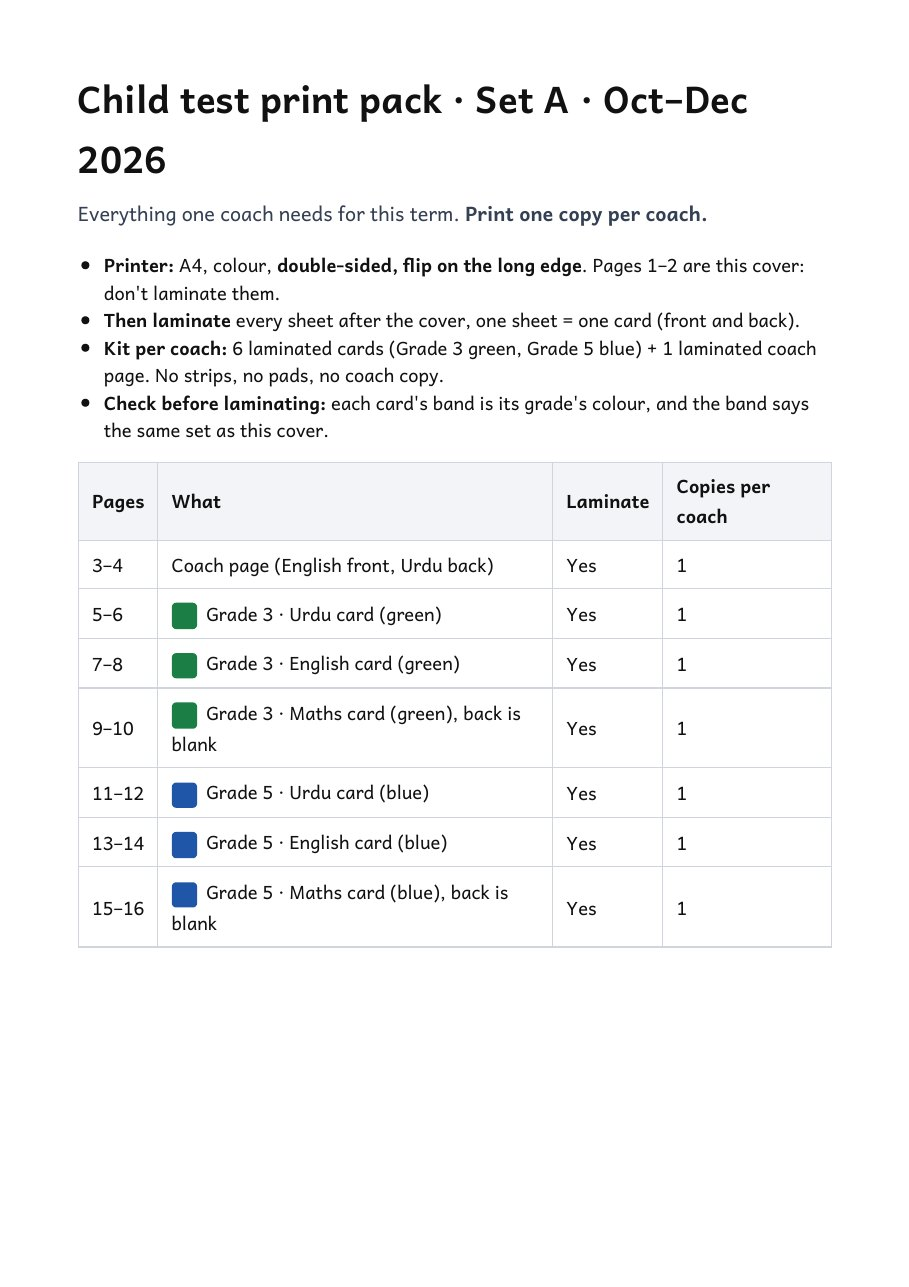
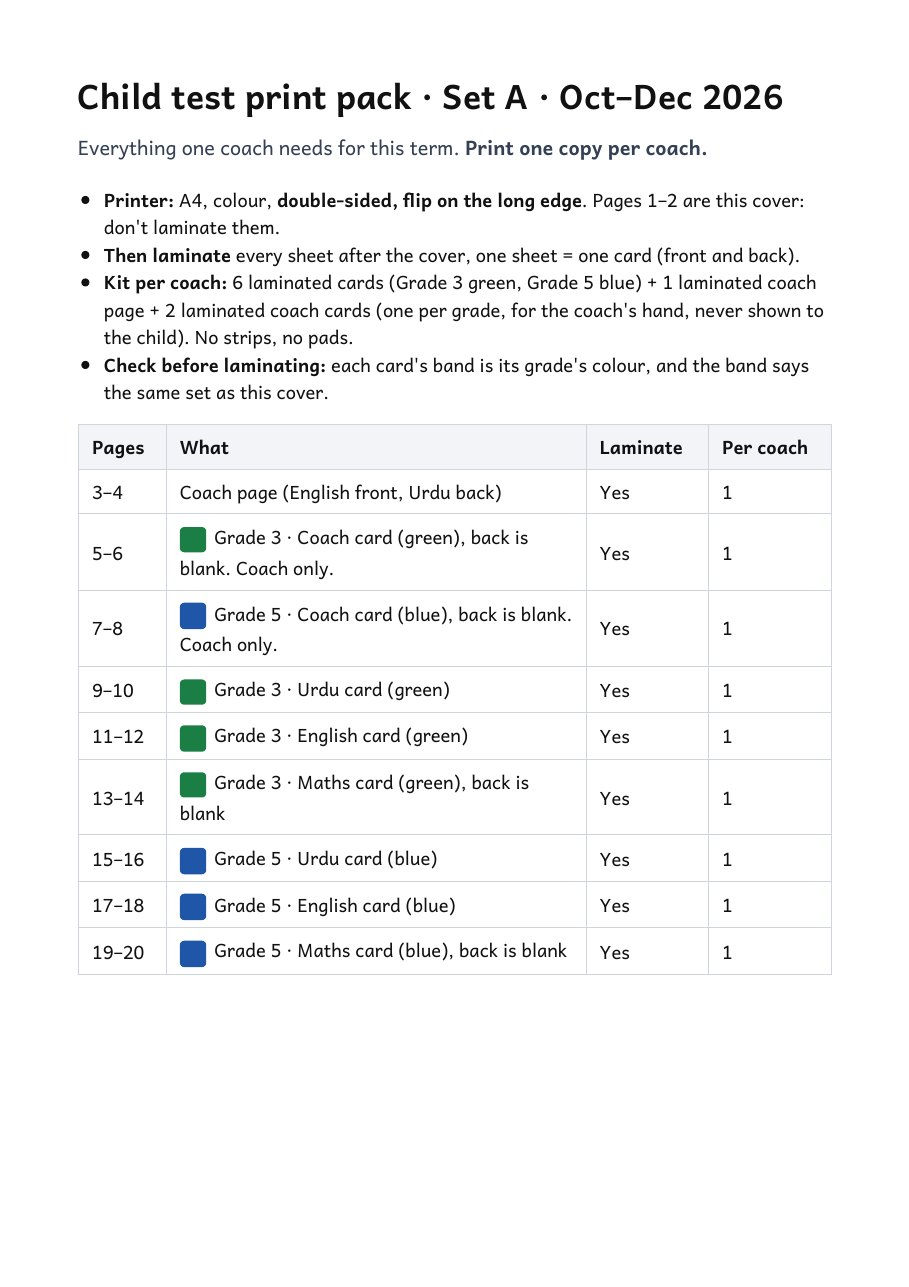
Print pack: coach cards (questions, answers, word problems) and the 20-page order; simulator points to the coach card

Changed region(s): [[0.0924, 0.0622, 0.8933, 0.777], [0.7701, 0.7148, 0.8009, 0.7459], [0.7701, 0.5284, 0.8009, 0.5594]]

diff --git a/index.html b/index.html
@@ -238,40 +238,36 @@ footer{padding-block:34px 48px;color:var(--faint);font-size:13px;max-width:88ch}
     <article><h3>Does the coach read the word problem, explain it, or just give the paper?</h3><p><b>Reads it aloud, slowly, once</b>, as EGMA does (EGMA reads word problems to the child so a weak reader isn't marked down in maths; the child may use paper and pencil; no explaining). The two problems are in the maths message and on the coach card.</p></article>
     <article><h3>The Urdu card had only the story; why did the form ask Urdu comprehension questions? Should Urdu have them?</h3><p><b>Yes</b>: Pakistan's Urdu EGRA asks 5 questions; we ask 3. In EGRA the questions are <b>never on the child's card</b>; the assessor asks them aloud after taking the passage away. The old message never told you to ask them. Now step 4 of the Urdu message lists them, the coach turns the card face down and asks; the table above shows them with translations.</p></article>
     <article><h3>"This child's key says 56": what is a key? How does the coach count words per minute, in their head?</h3><p><b>They don't count.</b> The "key" was the test child's answer sheet in my demo; real coaches have none. EGRA assessors train 5+ days to mark every word live and still disagree. Here the recording is the score sheet: the AI counts from it, and on the May Rawalpindi children it agreed with the enumerators more often than a second trained person did (Urdu 74% vs 58% within ±5 words). The coach only answers the few things the recording couldn't settle, at the end.</p></article>
-    <article><h3>Doesn't EGRA print the questions and word problems on the card the coach carries?</h3><p><b>Yes</b>: the EGRA/EGMA assessor holds their own sheet (paper or tablet) with the questions and accepted answers and the word problems to read; only the child's card is bare. In v2 the phone message is that sheet, and a <b>printed coach card per grade</b> ("don't show the child": questions with accepted answers, word problems, sum answers) is being added to the print pack now, as the paper backup.</p></article>
+    <article><h3>Doesn't EGRA print the questions and word problems on the card the coach carries?</h3><p><b>Yes</b>: the EGRA/EGMA assessor holds their own sheet (paper or tablet) with the questions and accepted answers and the word problems to read; only the child's card is bare. In v2 the phone message is that sheet, and a <b>printed coach card per grade</b> ("don't show the child": questions with accepted answers, word problems, sum answers) is in the print pack (pages 5 and 7), as the paper backup.</p></article>
     <article><h3>Coaches go to many schools. Does EGRA/EGMA change the papers from school to school?</h3><p><b>No.</b> In a data-collection round every child in every school reads the same form; that is what makes schools comparable. Forms change between rounds (baseline, endline) using parallel forms checked to be equally hard. So: <b>one set for every school this term</b>, Set B next term. EGRA rounds last weeks, our term three months, so the cards stay with the coach (never left at a school or photographed), the questions are never printed for children, and we can watch for leakage: a passage whose scores climb through the term while letters and words don't.</p></article>
     <article><h3>The rotation was unclear. With rotation the coach's attention leaves the child; without it we exceed 30 minutes.</h3><p>Two things had been called rotation: two card forms in one visit, and the next child writing maths while the current one read. <b>Both are gone.</b> The time came back from elsewhere: the coach no longer counts or fills a form per child (about 2 minutes each), first sounds, made-up words and the 60-second quick sums are dropped, and maths is one short spoken set. Measured on real WhatsApp: about 5 minutes per child, <b>about 27 minutes for five</b> plus a 1-minute review.</p></article>
   </div>
 </section>
 
 <section aria-labelledby="cards-h" id="cards">
-  <header><span class="eyebrow">The print pack</span><h2 id="cards-h">Every side of every card</h2><p>The PDF is 16 A4 pages, printed double-sided (flip on the long edge) and laminated: one set per coach for the term. Each card is one sheet, front and back. Grade 3 is green, Grade 5 blue; "Set A · Oct–Dec 2026" is on every side. No child card shows an answer, a question or an item number. Click any page to see it full size. A coach card with the questions and word problems is being added.</p></header>
-  <h3 class="grp">Grade 3 (green)</h3><div class="pairs"><div class="pair"><h3 class="pt">Grade 3 · Urdu</h3><div class="sides">
-      <figure><button type="button" class="zoom" data-full="img/print/full/p05.jpg" data-cap="Grade 3 · Urdu, front"><img src="img/print/t05.jpg" alt="Grade 3 · Urdu, front" loading="lazy"></button><figcaption><b>Front</b> · the story only (May 2026 passage)</figcaption></figure>
-      <figure><button type="button" class="zoom" data-full="img/print/full/p06.jpg" data-cap="Grade 3 · Urdu, back"><img src="img/print/t06.jpg" alt="Grade 3 · Urdu, back" loading="lazy"></button><figcaption><b>Back</b> · 10 letters, then 10 words: only for a child who can't read the story. Faces up when the card is turned over for the questions</figcaption></figure>
-    </div></div><div class="pair"><h3 class="pt">Grade 3 · English</h3><div class="sides">
-      <figure><button type="button" class="zoom" data-full="img/print/full/p07.jpg" data-cap="Grade 3 · English, front"><img src="img/print/t07.jpg" alt="Grade 3 · English, front" loading="lazy"></button><figcaption><b>Front</b> · the story only</figcaption></figure>
-      <figure><button type="button" class="zoom" data-full="img/print/full/p08.jpg" data-cap="Grade 3 · English, back"><img src="img/print/t08.jpg" alt="Grade 3 · English, back" loading="lazy"></button><figcaption><b>Back</b> · letters and words, the same rule</figcaption></figure>
-    </div></div><div class="pair"><h3 class="pt">Grade 3 · Maths</h3><div class="sides">
-      <figure><button type="button" class="zoom" data-full="img/print/full/p09.jpg" data-cap="Grade 3 · Maths, front"><img src="img/print/t09.jpg" alt="Grade 3 · Maths, front" loading="lazy"></button><figcaption><b>Front</b> · four "which is bigger" pairs, four sums</figcaption></figure>
-      <figure><button type="button" class="zoom" data-full="img/print/full/p10.jpg" data-cap="Grade 3 · Maths, back"><img src="img/print/t10.jpg" alt="Grade 3 · Maths, back" loading="lazy"></button><figcaption><b>Back</b> · blank on purpose: when the coach turns it over to read the word problems, the child has nothing to read</figcaption></figure>
-    </div></div></div>
-  <h3 class="grp">Grade 5 (blue)</h3><div class="pairs"><div class="pair"><h3 class="pt">Grade 5 · Urdu</h3><div class="sides">
-      <figure><button type="button" class="zoom" data-full="img/print/full/p11.jpg" data-cap="Grade 5 · Urdu, front"><img src="img/print/t11.jpg" alt="Grade 5 · Urdu, front" loading="lazy"></button><figcaption><b>Front</b> · the longer story (May passage + continuation)</figcaption></figure>
-      <figure><button type="button" class="zoom" data-full="img/print/full/p12.jpg" data-cap="Grade 5 · Urdu, back"><img src="img/print/t12.jpg" alt="Grade 5 · Urdu, back" loading="lazy"></button><figcaption><b>Back</b> · letters and words</figcaption></figure>
-    </div></div><div class="pair"><h3 class="pt">Grade 5 · English</h3><div class="sides">
-      <figure><button type="button" class="zoom" data-full="img/print/full/p13.jpg" data-cap="Grade 5 · English, front"><img src="img/print/t13.jpg" alt="Grade 5 · English, front" loading="lazy"></button><figcaption><b>Front</b> · the longer story</figcaption></figure>
-      <figure><button type="button" class="zoom" data-full="img/print/full/p14.jpg" data-cap="Grade 5 · English, back"><img src="img/print/t14.jpg" alt="Grade 5 · English, back" loading="lazy"></button><figcaption><b>Back</b> · letters and words</figcaption></figure>
-    </div></div><div class="pair"><h3 class="pt">Grade 5 · Maths</h3><div class="sides">
-      <figure><button type="button" class="zoom" data-full="img/print/full/p15.jpg" data-cap="Grade 5 · Maths, front"><img src="img/print/t15.jpg" alt="Grade 5 · Maths, front" loading="lazy"></button><figcaption><b>Front</b> · four pairs, four harder sums (8 × 9, 72 ÷ 6)</figcaption></figure>
-      <figure><button type="button" class="zoom" data-full="img/print/full/p16.jpg" data-cap="Grade 5 · Maths, back"><img src="img/print/t16.jpg" alt="Grade 5 · Maths, back" loading="lazy"></button><figcaption><b>Back</b> · blank on purpose</figcaption></figure>
-    </div></div></div>
-  <h3 class="grp">For the coach</h3><div class="pairs"><div class="pair"><h3 class="pt">Coach page (not for the child)</h3><div class="sides">
-      <figure><button type="button" class="zoom" data-full="img/print/full/p03.jpg" data-cap="Coach page (not for the child), front"><img src="img/print/t03.jpg" alt="Coach page (not for the child), front" loading="lazy"></button><figcaption><b>Front</b> · English: where to sit, what to bring, five rules</figcaption></figure>
-      <figure><button type="button" class="zoom" data-full="img/print/full/p04.jpg" data-cap="Coach page (not for the child), back"><img src="img/print/t04.jpg" alt="Coach page (not for the child), back" loading="lazy"></button><figcaption><b>Back</b> · the same in Urdu</figcaption></figure>
+  <header><span class="eyebrow">The print pack</span><h2 id="cards-h">Every side of every card, and the coach cards</h2><p>The PDF is 20 A4 pages, printed double-sided (flip on the long edge) and laminated: one set per coach for the term. Each child card is one sheet, front and back; Grade 3 is green, Grade 5 blue; "Set A · Oct–Dec 2026" is on every side, and no child card shows an answer, a question or an item number. The coach card (one per grade, back blank) holds the questions and word problems, as EGRA's assessor sheet does. Click any page to see it full size.</p></header>
+  <h3 class="grp">For the coach</h3><div class="pairs"><div class="pair"><h3 class="pt">Coach card · Grade 3 (don't show the child)</h3><div class="sides">
+      <figure><button type="button" class="zoom" data-full="img/print/full/p05.jpg" data-cap="Coach card · Grade 3 (don't show the child), front"><img src="img/print/t05.jpg" alt="Coach card · Grade 3 (don't show the child), front" loading="lazy"></button><figcaption><b>Front</b> · what to say, the 3 Urdu and 3 English questions with the answers that count, the pairs and sums with answers, the 2 word problems to read aloud with answers. The EGRA assessor sheet, simplified; the paper twin of the phone message</figcaption></figure>
+    </div></div><div class="pair"><h3 class="pt">Coach card · Grade 5 (don't show the child)</h3><div class="sides">
+      <figure><button type="button" class="zoom" data-full="img/print/full/p07.jpg" data-cap="Coach card · Grade 5 (don't show the child), front"><img src="img/print/t07.jpg" alt="Coach card · Grade 5 (don't show the child), front" loading="lazy"></button><figcaption><b>Front</b> · the same for Grade 5</figcaption></figure>
+    </div></div><div class="pair"><h3 class="pt">Coach page</h3><div class="sides">
+      <figure><button type="button" class="zoom" data-full="img/print/full/p03.jpg" data-cap="Coach page, front"><img src="img/print/t03.jpg" alt="Coach page, front" loading="lazy"></button><figcaption><b>Front</b> · English: where to sit, what to bring, five rules</figcaption></figure><figure><button type="button" class="zoom" data-full="img/print/full/p04.jpg" data-cap="Coach page, back"><img src="img/print/t04.jpg" alt="Coach page, back" loading="lazy"></button><figcaption><b>Back</b> · the same in Urdu</figcaption></figure>
     </div></div><div class="pair"><h3 class="pt">Cover</h3><div class="sides">
-      <figure><button type="button" class="zoom" data-full="img/print/full/p01.jpg" data-cap="Cover, front"><img src="img/print/t01.jpg" alt="Cover, front" loading="lazy"></button><figcaption><b>Front</b> · what to print, how many, what to laminate</figcaption></figure>
-      <figure><button type="button" class="zoom" data-full="img/print/full/p02.jpg" data-cap="Cover, back"><img src="img/print/t02.jpg" alt="Cover, back" loading="lazy"></button><figcaption><b>Back</b> · blank (so the cards start on a fresh sheet)</figcaption></figure>
+      <figure><button type="button" class="zoom" data-full="img/print/full/p01.jpg" data-cap="Cover, front"><img src="img/print/t01.jpg" alt="Cover, front" loading="lazy"></button><figcaption><b>Front</b> · what to print, how many, what to laminate</figcaption></figure><figure><button type="button" class="zoom" data-full="img/print/full/p02.jpg" data-cap="Cover, back"><img src="img/print/t02.jpg" alt="Cover, back" loading="lazy"></button><figcaption><b>Back</b> · blank, so the cards start on a fresh sheet</figcaption></figure>
+    </div></div></div>
+  <h3 class="grp">Grade 3 child cards (green)</h3><div class="pairs"><div class="pair"><h3 class="pt">Grade 3 · Urdu</h3><div class="sides">
+      <figure><button type="button" class="zoom" data-full="img/print/full/p09.jpg" data-cap="Grade 3 · Urdu, front"><img src="img/print/t09.jpg" alt="Grade 3 · Urdu, front" loading="lazy"></button><figcaption><b>Front</b> · the story only (May 2026 passage)</figcaption></figure><figure><button type="button" class="zoom" data-full="img/print/full/p10.jpg" data-cap="Grade 3 · Urdu, back"><img src="img/print/t10.jpg" alt="Grade 3 · Urdu, back" loading="lazy"></button><figcaption><b>Back</b> · 10 letters, then 10 words: only for a child who can't read the story. Faces up when the card is turned over for the questions</figcaption></figure>
+    </div></div><div class="pair"><h3 class="pt">Grade 3 · English</h3><div class="sides">
+      <figure><button type="button" class="zoom" data-full="img/print/full/p11.jpg" data-cap="Grade 3 · English, front"><img src="img/print/t11.jpg" alt="Grade 3 · English, front" loading="lazy"></button><figcaption><b>Front</b> · the story only</figcaption></figure><figure><button type="button" class="zoom" data-full="img/print/full/p12.jpg" data-cap="Grade 3 · English, back"><img src="img/print/t12.jpg" alt="Grade 3 · English, back" loading="lazy"></button><figcaption><b>Back</b> · letters and words, the same rule</figcaption></figure>
+    </div></div><div class="pair"><h3 class="pt">Grade 3 · Maths</h3><div class="sides">
+      <figure><button type="button" class="zoom" data-full="img/print/full/p13.jpg" data-cap="Grade 3 · Maths, front"><img src="img/print/t13.jpg" alt="Grade 3 · Maths, front" loading="lazy"></button><figcaption><b>Front</b> · four "which is bigger" pairs, four sums</figcaption></figure><figure><button type="button" class="zoom" data-full="img/print/full/p14.jpg" data-cap="Grade 3 · Maths, back"><img src="img/print/t14.jpg" alt="Grade 3 · Maths, back" loading="lazy"></button><figcaption><b>Back</b> · blank on purpose: when the coach turns it over to read the word problems, the child has nothing to read</figcaption></figure>
+    </div></div></div>
+  <h3 class="grp">Grade 5 child cards (blue)</h3><div class="pairs"><div class="pair"><h3 class="pt">Grade 5 · Urdu</h3><div class="sides">
+      <figure><button type="button" class="zoom" data-full="img/print/full/p15.jpg" data-cap="Grade 5 · Urdu, front"><img src="img/print/t15.jpg" alt="Grade 5 · Urdu, front" loading="lazy"></button><figcaption><b>Front</b> · the longer story (May passage + continuation)</figcaption></figure><figure><button type="button" class="zoom" data-full="img/print/full/p16.jpg" data-cap="Grade 5 · Urdu, back"><img src="img/print/t16.jpg" alt="Grade 5 · Urdu, back" loading="lazy"></button><figcaption><b>Back</b> · letters and words</figcaption></figure>
+    </div></div><div class="pair"><h3 class="pt">Grade 5 · English</h3><div class="sides">
+      <figure><button type="button" class="zoom" data-full="img/print/full/p17.jpg" data-cap="Grade 5 · English, front"><img src="img/print/t17.jpg" alt="Grade 5 · English, front" loading="lazy"></button><figcaption><b>Front</b> · the longer story</figcaption></figure><figure><button type="button" class="zoom" data-full="img/print/full/p18.jpg" data-cap="Grade 5 · English, back"><img src="img/print/t18.jpg" alt="Grade 5 · English, back" loading="lazy"></button><figcaption><b>Back</b> · letters and words</figcaption></figure>
+    </div></div><div class="pair"><h3 class="pt">Grade 5 · Maths</h3><div class="sides">
+      <figure><button type="button" class="zoom" data-full="img/print/full/p19.jpg" data-cap="Grade 5 · Maths, front"><img src="img/print/t19.jpg" alt="Grade 5 · Maths, front" loading="lazy"></button><figcaption><b>Front</b> · four pairs, four harder sums (8 × 9, 72 ÷ 6)</figcaption></figure><figure><button type="button" class="zoom" data-full="img/print/full/p20.jpg" data-cap="Grade 5 · Maths, back"><img src="img/print/t20.jpg" alt="Grade 5 · Maths, back" loading="lazy"></button><figcaption><b>Back</b> · blank on purpose</figcaption></figure>
     </div></div></div>
 </section>
 
@@ -293,7 +289,7 @@ footer{padding-block:34px 48px;color:var(--faint);font-size:13px;max-width:88ch}
 <section aria-labelledby="open-h">
   <header><span class="eyebrow">Still open</span><h2 id="open-h">Before a real classroom</h2></header>
   <div class="open">
-    <div><span class="state s-work">In progress</span><b>Printed coach card</b>One A4 side per grade with the questions, accepted answers, word problems and sum answers, added to the print pack.</div>
+    <div><span class="state s-later">Done</span><b>Printed coach card</b>One A4 side per grade with the questions, accepted answers, word problems and sum answers: in the print pack (pages 5 and 7).</div>
     <div><span class="state s-you">Needs you</span><b>A 15-minute test on a real phone</b>Lock a voice note and count aloud; then scroll, leave the phone 2.5 minutes, let a message arrive. Did it keep recording?</div>
     <div><span class="state s-you">Needs a decision</span><b>Consent before any real child is recorded</b>Who agrees, how parents are told, how long audio is kept.</div>
     <div><span class="state s-later">Next</span><b>Oral maths on real children</b>89–91% right on test voices; real audio not yet tested.</div>
@@ -384,21 +380,21 @@ const PH = {
     { at: 0, key: 'start', label: 'Start', card: 'urF', title: 'Say the start line', lines: [line(SC().urdu.start, GL.urdu.start)], hint: 'Then stay quiet.' },
     { at: 5, key: 'story', label: 'Story (1 minute)', card: 'urF', title: 'The child reads', lines: [line(SC().urdu.go_on, GL.urdu.go_on + ' Only if the child is stuck for 3 seconds: point to the next word and say this.')], hint: '<b>You don\'t count anything.</b> The recording is the score sheet.', fb: true },
     { at: 70, key: 'stop', label: 'Stop at 1:10', card: 'urB', title: 'Stop, and turn the card over', lines: [line(SC().urdu.stop, GL.urdu.stop)], hint: 'Then turn the card <b>face down</b>.' },
-    { at: 74, key: 'q', label: '3 questions', card: 'urB', title: 'Ask the 3 questions aloud', lines: [line(SC().urdu.questions_intro, GL.urdu.questions_intro)].concat(SC().urduQ.map((q,i)=>line(q.q, (i+1)+'. '+GL.urduQ[i], 'Right if the child says: '+q.accept.join(' / ')+' ('+GL.urduA[i]+')'))), hint: 'Ask each once and wait. Don\'t say "right" or "wrong".' },
+    { at: 74, key: 'q', label: '3 questions', card: 'urB', title: 'Ask the 3 questions aloud', lines: [line(SC().urdu.questions_intro, GL.urdu.questions_intro)].concat(SC().urduQ.map((q,i)=>line(q.q, (i+1)+'. '+GL.urduQ[i], 'Right if the child says: '+q.accept.join(' / ')+' ('+GL.urduA[i]+')'))), hint: 'Ask each once and wait. Don\'t say "right" or "wrong". The questions and answers are also on the printed <b>coach card</b>.' },
     { at: 112, key: 'send', label: 'Send', card: 'urB', title: 'Send the voice note', lines: [], hint: 'Tap <b>➤</b> on the phone.' },
   ],
   english: () => [
     { at: 0, key: 'start', label: 'Start', card: 'enF', title: 'Say the start line', lines: [line(null, SC().english.start)], hint: 'Then stay quiet.' },
     { at: 5, key: 'story', label: 'Story (1 minute)', card: 'enF', title: 'The child reads', lines: [line(null, SC().english.go_on + '  (only if stuck for 3 seconds: point to the next word)')], hint: '<b>You don\'t count anything.</b>', fb: true },
     { at: 70, key: 'stop', label: 'Stop at 1:10', card: 'enB', title: 'Stop, and turn the card over', lines: [line(null, SC().english.stop)], hint: 'Then turn the card <b>face down</b>.' },
-    { at: 74, key: 'q', label: '3 questions', card: 'enB', title: 'Ask the 3 questions aloud', lines: [line(null, SC().english.questions_intro)].concat(SC().englishQ.map((q,i)=>line(null, (i+1)+'. '+q.q, 'Right if: '+q.accept.join(' / ')))), hint: 'The child may answer in Urdu or English.' },
+    { at: 74, key: 'q', label: '3 questions', card: 'enB', title: 'Ask the 3 questions aloud', lines: [line(null, SC().english.questions_intro)].concat(SC().englishQ.map((q,i)=>line(null, (i+1)+'. '+q.q, 'Right if: '+q.accept.join(' / ')))), hint: 'The child may answer in Urdu or English. Also on the printed <b>coach card</b>.' },
     { at: 112, key: 'send', label: 'Send', card: 'enB', title: 'Send the voice note', lines: [], hint: 'Tap <b>➤</b> on the phone.' },
   ],
   maths: () => [
     { at: 0, key: 'start', label: 'Start', card: 'maF', title: 'Say the start line', lines: [line(SC().maths.start, GL.maths.start)] },
     { at: 3, key: 'pairs', label: 'Pairs A–D', card: 'maF', title: 'Point to each pair, A to D', lines: [line(SC().maths.compare, GL.maths.compare)].concat(SC().compare.map(c=>line(null, c.label+':  '+c.a+'  or  '+c.b, 'Right: '+c.answer))) },
     { at: 23, key: 'sums', label: 'Sums 1–4', card: 'maF', title: 'Point to each sum, 1 to 4', lines: [line(SC().maths.sum, GL.maths.sum)].concat(SC().sums.map(s=>line(null, s.label+':  '+s.prompt+' =', 'Right: '+s.answer))).concat([line(SC().maths.next, GL.maths.next+'  (no answer after a slow count of 5)')]), hint: 'The child may use the paper.' },
-    { at: 63, key: 'wp', label: '2 word problems', card: 'maB', title: 'Card face down. Read each problem aloud', lines: [line(SC().maths.wp_intro, GL.maths.wp_intro)].concat(SC().wps.map((w,i)=>line(w.prompt_ur, (i+1)+'. '+w.prompt_en, 'Right: '+w.answer))), hint: 'Read slowly, once. Don\'t explain.' },
+    { at: 63, key: 'wp', label: '2 word problems', card: 'maB', title: 'Card face down. Read each problem aloud', lines: [line(SC().maths.wp_intro, GL.maths.wp_intro)].concat(SC().wps.map((w,i)=>line(w.prompt_ur, (i+1)+'. '+w.prompt_en, 'Right: '+w.answer))), hint: 'Read slowly, once. Don\'t explain. Both problems and answers are also on the printed <b>coach card</b>.' },
     { at: 100, key: 'stop', label: 'Stop', card: 'maB', title: 'Stop', lines: [line(SC().maths.stop, GL.maths.stop)] },
     { at: 103, key: 'send', label: 'Send', card: 'maB', title: 'Send the voice note', lines: [], hint: 'Tap <b>➤</b> on the phone.' },
   ],
